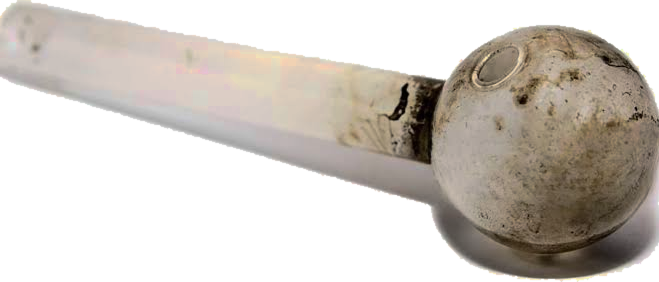
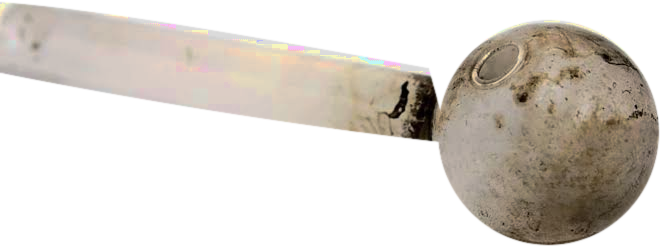
Refine pipe cutout and smoke visibility

diff --git a/local/theme.css b/local/theme.css
@@ -37,8 +37,8 @@ body.theme-cloudyplap .sentinel-chitin-bracket {
 
 #theme-smoke-puff {
   position: fixed;
-  left: 82%;
-  bottom: calc(5rem + min(27vw, 190px));
+  left: 85%;
+  bottom: calc(4.7rem + min(25vw, 140px));
   width: clamp(220px, 30vw, 360px);
   aspect-ratio: 360 / 404;
   transform: translateX(-50%);
@@ -62,40 +62,40 @@ body.theme-cloudyplap.smoke-on #player.on #reel-smoke,
 
 #theme-smoke-back .smoke-wisp-video {
   position: absolute;
-  left: 82%;
-  bottom: calc(5rem + min(27vw, 190px));
+  left: 85%;
+  bottom: calc(4.7rem + min(25vw, 140px));
   width: clamp(240px, 32vw, 360px);
   height: auto;
   aspect-ratio: 2 / 3;
   transform: translateX(-50%);
-  opacity: 0.23;
-  filter: contrast(1.08) brightness(0.9) blur(0.2px);
+  opacity: 0.4;
+  filter: contrast(1.16) brightness(1.24) blur(0.2px);
 }
 
 #reel-smoke .smoke-wisp-video {
   position: absolute;
-  left: 82%;
-  bottom: calc(5rem + min(27vw, 190px));
+  left: 85%;
+  bottom: calc(4.7rem + min(25vw, 140px));
   width: clamp(260px, 36vw, 400px);
   height: auto;
   aspect-ratio: 2 / 3;
   transform: translateX(-50%);
-  opacity: 0.27;
-  filter: contrast(1.08) brightness(0.92) blur(0.2px);
+  opacity: 0.38;
+  filter: contrast(1.14) brightness(1.2) blur(0.2px);
 }
 
 #theme-smoke-puff .smoke-wisp-video {
-  opacity: 0.24;
-  filter: contrast(1.04) brightness(0.84) blur(0.35px);
+  opacity: 0.22;
+  filter: contrast(1.05) brightness(0.88) blur(0.35px);
 }
 
 #tina-pipe {
   display: none;
   position: fixed;
-  right: 4vw;
+  right: clamp(1rem, 10vw, 8rem);
   bottom: calc(4.7rem + env(safe-area-inset-bottom, 0px));
   z-index: 55;
-  width: min(56vw, 520px);
+  width: min(38vw, 380px);
   height: auto;
   padding: 0;
   border: 0;
@@ -141,6 +141,19 @@ body:has(#player.on) #tina-pipe {
 @keyframes pipe-puff {
   0%, 100% { transform: rotate(0deg) scale(1); }
   45% { transform: rotate(-1.2deg) scale(0.975); }
+}
+
+@media (max-width: 680px) {
+  #theme-smoke-puff,
+  #theme-smoke-back .smoke-wisp-video,
+  #reel-smoke .smoke-wisp-video {
+    left: 80%;
+  }
+
+  #tina-pipe {
+    right: 4vw;
+    width: min(72vw, 330px);
+  }
 }
 
 .intro-cloudy {

diff --git a/index.html b/index.html
@@ -296,8 +296,8 @@
          their teardowns; it swaps them in place when a new build lands, with no
          reload. Keep new feature work in local/*.js so it stays hot-swappable. -->
     <script src="local/perf.js?v=1"></script>
-    <script src="local/live-update.js?v=3" data-build="2026-08-25-3"></script>
-    <script src="local/cloudyplap.js?v=7" data-hot="local/cloudyplap.js"></script>
+    <script src="local/live-update.js?v=3" data-build="2026-08-25-4"></script>
+    <script src="local/cloudyplap.js?v=8" data-hot="local/cloudyplap.js"></script>
     <script src="vendor/jszip.min.js"></script>
     <script src="app.js?v=17"></script>
     <script src="local/splat.js?v=1" data-hot="local/splat.js"></script>

diff --git a/sw.js b/sw.js
@@ -1,4 +1,4 @@
-const CACHE = "omens-plapinator-v26";
+const CACHE = "omens-plapinator-v27";
 const APP_CACHE_PREFIXES = ["omens-plapinator-", "gooninator-reloaded-", "gooninator-local-", "cloudyplap-pack-"];
 const SHELL = [
   "./",
@@ -24,11 +24,11 @@ const SHELL = [
   "./version.json",
   "./local/perf.js?v=1",
   "./local/live-update.js?v=3",
-  "./local/cloudyplap.js?v=7",
+  "./local/cloudyplap.js?v=8",
   "./local/splat.js?v=1",
   "./local/five-thousand.js?v=3",
   "./local/five-thousand.css?v=2",
-  "./local/theme.css?v=7",
+  "./local/theme.css?v=8",
   "./local/fonts/title-faces.css?v=5",
   "./local/fonts/bungee.woff2",
   "./local/fonts/bungee-shade.woff2",
